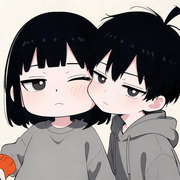
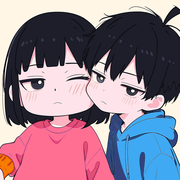
파비콘·애플 터치 아이콘을 아동 컬러판(sister-face·duo 컬러판 축소)으로 교체

diff --git a/_tests/test_recolor_icons.py b/_tests/test_recolor_icons.py
@@ -1,0 +1,129 @@
+"""Item: recolour the site icons (favicon.png, apple-touch-icon.png) to the kids palette.
+
+Done when
+- both icons keep the size and mode of the bb74c20 original
+  (favicon 64x64 RGBA round cut-out, apple-touch-icon 180x180 RGB opaque),
+- both are more colourful than the original,
+- favicon (sister face in a circle): clearly more colourful (+0.05 over the mono
+  base, which scores ~0.08) and the transparent corners / opaque centre survive,
+- apple-touch-icon (twins duo): the sister's pink sweatshirt (#FF6F91) and the
+  brother's sky hoodie (#3FA9F5) are both visible (the mono original has neither),
+  and the corners stay light cream,
+- work PNGs / candidates live only outside the repo (TEMP), never in it.
+
+Note: the mono apple-touch-icon already scores ~0.32 on imgcheck.colourfulness
+because its blue-black hair counts as saturated, so the garment checks are what
+prove the recolour actually happened.
+Run: python _tests/test_recolor_icons.py
+"""
+import os
+import subprocess
+import sys
+import unittest
+
+sys.dont_write_bytecode = True
+sys.path.insert(0, os.path.dirname(os.path.abspath(__file__)))
+import imgcheck  # noqa: E402
+from test_recolor_twins_duo import pink_share, sky_share  # noqa: E402
+
+FAVICON = "assets/images/twins/favicon.png"
+APPLE = "assets/images/twins/apple-touch-icon.png"
+ICONS = (FAVICON, APPLE)
+FAVICON_MARGIN = 0.05   # favicon must gain at least this much colourfulness
+MIN_SHARE = 0.03        # each duo garment colour must cover >= 3% of the icon
+BASE_MAX_SHARE = 0.02   # sanity: the mono base must stay below this
+
+
+class TestRecolorIcons(unittest.TestCase):
+    def test_files_exist(self):
+        for rel in ICONS:
+            self.assertTrue(os.path.isfile(imgcheck.repo_path(rel)), rel)
+
+    def test_changed_from_base(self):
+        for rel in ICONS:
+            with open(imgcheck.repo_path(rel), "rb") as f:
+                now = f.read()
+            self.assertFalse(imgcheck.original_bytes(rel) == now,
+                             f"{rel} is still the bb74c20 (mono) file")
+
+    def test_size_and_mode_match_base(self):
+        for rel in ICONS:
+            ok, msg = imgcheck.same_size_mode(rel)
+            self.assertTrue(ok, msg)
+
+    def test_still_png(self):
+        for rel in ICONS:
+            self.assertEqual(imgcheck.current(rel).format, "PNG", rel)
+
+    def test_more_colourful_than_base(self):
+        for rel in ICONS:
+            old = imgcheck.colourfulness(imgcheck.original(rel))
+            new = imgcheck.colourfulness(imgcheck.current(rel))
+            self.assertGreater(new, old, f"{rel}: {old:.3f} -> {new:.3f}")
+
+    def test_favicon_clearly_coloured(self):
+        old = imgcheck.colourfulness(imgcheck.original(FAVICON))
+        new = imgcheck.colourfulness(imgcheck.current(FAVICON))
+        self.assertGreaterEqual(new, old + FAVICON_MARGIN,
+                                f"favicon {old:.3f} -> {new:.3f}")
+
+    def test_favicon_round_cutout_kept(self):
+        # Corners transparent (circle cut-out), centre fully opaque.
+        img = imgcheck.current(FAVICON).convert("RGBA")
+        w, h = img.size
+        for xy in [(0, 0), (w - 1, 0), (0, h - 1), (w - 1, h - 1)]:
+            self.assertLess(img.getpixel(xy)[3], 32, f"corner {xy} not transparent")
+        self.assertEqual(img.getpixel((w // 2, h // 2))[3], 255, "centre not opaque")
+
+    def test_apple_sister_pink_present(self):
+        share = pink_share(imgcheck.current(APPLE))
+        self.assertGreaterEqual(share, MIN_SHARE, f"pink sweatshirt {share:.3f}")
+
+    def test_apple_brother_sky_present(self):
+        share = sky_share(imgcheck.current(APPLE))
+        self.assertGreaterEqual(share, MIN_SHARE, f"sky hoodie {share:.3f}")
+
+    def test_apple_cream_corners_kept(self):
+        # Opaque icon on cream: top corners must stay light and near-neutral.
+        img = imgcheck.current(APPLE).convert("RGB")
+        w, _h = img.size
+        bad = []
+        for xy in [(1, 1), (w - 2, 1)]:
+            r, g, b = img.getpixel(xy)
+            if min(r, g, b) < 200 or max(r, g, b) - min(r, g, b) > 40:
+                bad.append(f"{xy}: {(r, g, b)}")
+        self.assertEqual(bad, [], "top corners are not cream")
+
+    def test_no_work_files_in_repo(self):
+        out = subprocess.run(
+            ["git", "status", "--porcelain", "--untracked-files=all", "--ignored"],
+            cwd=imgcheck.REPO, capture_output=True, text=True, check=True).stdout
+        stray = [line for line in out.splitlines()
+                 if ("favicon" in line.lower() or "apple-touch" in line.lower()
+                     or "icon" in line.lower())
+                 and line.lower().rstrip('"').endswith((".png", ".webp", ".jpg", ".jpeg"))
+                 and line[3:].strip().strip('"') not in ICONS
+                 and "assets/images/apps/" not in line]
+        self.assertEqual(stray, [], "work PNG / candidate left inside the repo")
+
+
+class TestIconBase(unittest.TestCase):
+    def test_base_shapes(self):
+        fav, apple = imgcheck.original(FAVICON), imgcheck.original(APPLE)
+        self.assertEqual((fav.size, fav.mode), ((64, 64), "RGBA"))
+        self.assertEqual((apple.size, apple.mode), ((180, 180), "RGB"))
+
+    def test_base_lacks_garment_colours(self):
+        # The mono original must fail the garment checks, else they prove nothing.
+        old = imgcheck.original(APPLE)
+        self.assertLess(pink_share(old), BASE_MAX_SHARE)
+        self.assertLess(sky_share(old), BASE_MAX_SHARE)
+
+    def test_favicon_margin_is_meaningful(self):
+        # The base favicon itself must fail the margin check.
+        old = imgcheck.colourfulness(imgcheck.original(FAVICON))
+        self.assertLess(old, 0.15, f"mono favicon unexpectedly colourful {old:.3f}")
+
+
+if __name__ == "__main__":
+    unittest.main(verbosity=1)
